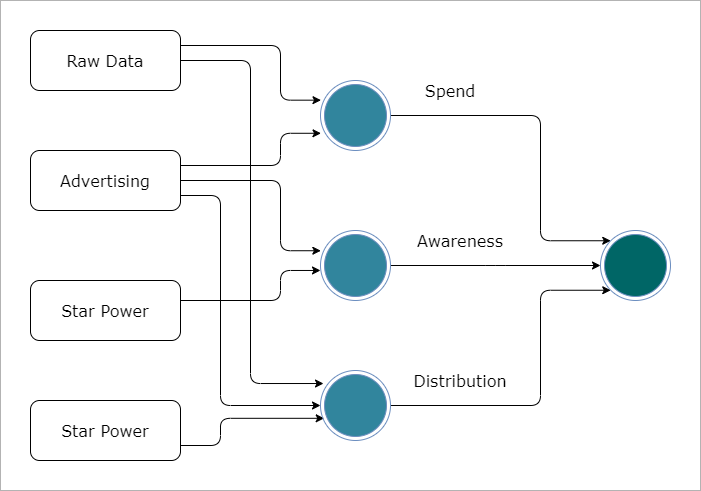
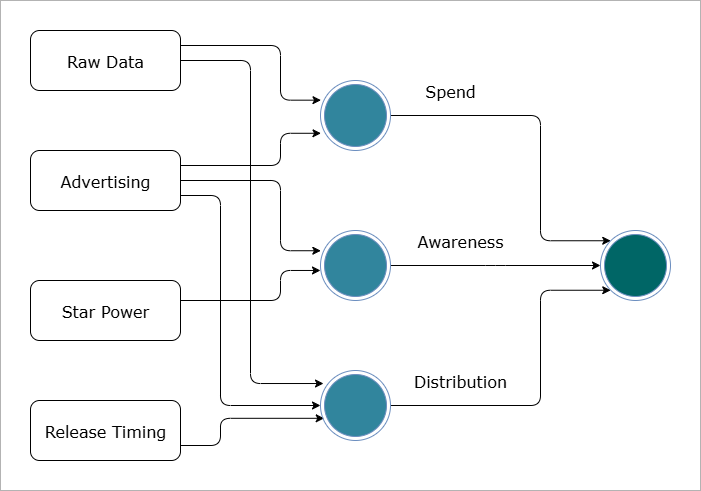
Update notes

diff --git a/docs/024-Machine-Learning/001-ML-Fundamentals/015-Deep-Learning.md b/docs/024-Machine-Learning/001-ML-Fundamentals/015-Deep-Learning.md
@@ -12,62 +12,86 @@ last_update:
 
 ## Overview
 
-Deep learning involves using algorithms called **neural networks**, which are inspired by how human brains work. These networks consist of interconnected nodes or neurons that process data and learn patterns.
+Deep learning uses **neural networks** inspired by the human brain. These networks learn patterns from data and solve complex problems.
 
-- Neurons, also known as nodes, are the basic units of these networks
-- Solves complex problems but requires large amounts of data
-- Best suited for less structured inputs like large texts or images
+- Neurons (nodes) process information and pass it forward
+- Handles unstructured inputs like images, text, and audio
+- Requires large amounts of data for training
+
+Deep learning builds on classical machine learning to solve more advanced tasks, learning from data like a brain does.
+
+## Capabilities
+
+Modern deep learning can do tasks that were once very difficult.
+
+- Recognizes objects in images and videos
+- Translates and summarizes text automatically
+- Generates realistic conversations, images, and audio
+
+These abilities make deep learning suitable for real-world, high-complexity problems.
+
 
 ## Case Study: Box Office Revenue
 
 Deep learning can be applied to real-world problems, like predicting the box office revenue of a movie based on various factors.
 
 - **Simple Model Example**
-  - Predicting box office revenue based on production budget
-  - A straight line through data points shows the relationship between budget and revenue
-  - This is a prediction from a simple model
-  - Neural network might use budget as input to predict revenue
+
+  - Predict revenue from production budget
+  - Straight line shows relationship between budget and revenue
+  - Neural network uses budget as input to predict revenue
 
 - **Adding More Data**
-  - More information available: advertising spend, star power, timing of release
-  - Leads to a more complex neural network
+
+  - Include advertising spend, star power, and release timing
+  - Network becomes more complex and accurate
 
 In a neural network, different neurons handle different aspects of the data. 
 
-- **First Neuron**: Estimates spend based on budget and advertising costs
-- **Second Neuron**: Tracks awareness from advertising and star power
-- **Third Neuron**: Considers distribution decisions, budget, advertising, and release timing
-- **Final Neuron**: Takes outputs from previous neurons to estimate box office revenue
+1. **First Neuron**: Estimates spend based on budget and advertising costs
+2. **Second Neuron**: Tracks awareness from advertising and star power
+3. **Third Neuron**: Considers distribution, timing, and combined factors
+4. **Final Neuron**: Takes outputs from previous neurons to estimate box office revenue
 
 We can better understand this from the diagram below: 
 
+<div class='img-center'>
+
 ![](/img/docs/deeplearning-predicting-box-office-revenue.png)
+
+</div>
+
 
 
 ## Training the Neural Network
 
 Training a neural network involves feeding it data and allowing it to learn the relationships between different inputs and outputs.
 
-- Training data is input to figure out relationships between neurons
-- Neural network learns by testing and analyzing these relationships
+- Input data is used to calculate relationships between neurons
+- Network adjusts weights to improve predictions
+- Accuracy increases with repeated testing and optimization
+- Training allows the network to map inputs to outputs reliably.
 
 ## Deep Learning
 
-Deep learning involves using much larger neural networks, enabling the computation of very complex functions.
+Deep learning involves using much larger neural networks for computing very complex functions.
 
-- Real networks are much larger, with thousands of neurons
-- Stacking many neurons enables computation of complex functions
-- Provides accurate mappings from input to output
+- Can contain thousands of neurons
+- Stacked neurons compute very complex functions
+- Provides accurate predictions for complicated tasks
 
-    |![](/img/docs/ml-deeplearning-million-neurons.png)|
-    |-|
+
+|![](/img/docs/ml-deeplearning-million-neurons.png)|
+|-|
 
 
 ## When to Use Deep Learning?
 
-Deep learning is powerful but should be chosen based on specific conditions.
+Deep learning is powerful but not always needed.
 
-- Best for large datasets
-- Requires powerful computers for training
-- Excels in areas with lack of domain knowledge, as it identifies features for you
-- Shines in complex problems like computer vision and natural language processing
+- Works best with large datasets
+- Requires high-performance computing
+- Finds features automatically when domain knowledge is limited
+- Excels at computer vision, natural language processing, and other complex problems
+
+Deep learning is most effective when the problem is complex, the data is large, and automated feature detection is valuable.

diff --git a/docs/024-Machine-Learning/001-ML-Fundamentals/005-Unsupervised-Learning.md b/docs/024-Machine-Learning/001-ML-Fundamentals/005-Unsupervised-Learning.md
@@ -37,6 +37,14 @@ Below are some examples of clustering models:
   - No need to specify number of clusters
   - Requires setting criteria for what counts as a cluster
 
+<div class='img-center'>
+
+![](/img/docs/09292025-clustering_example.png)
+
+</div>
+
+
+
 ## Anomaly Detection
 
 Anomaly detection focuses on identifying outliers, which are observations that significantly differ from others.
@@ -58,6 +66,13 @@ Anomaly detection focuses on identifying outliers, which are observations that s
   - Error spotting
   - Unusual medical cases
 
+<div class='img-center'>
+
+![](/img/docs/09292025-ml-anomaly-detection.jpg)
+
+</div>
+
+
 ## Association
 
 Association involves finding relationships between observations, often used in market basket analysis to determine which items are bought together.
@@ -70,3 +85,9 @@ It is commonly used in **market basket analysis** to find patterns in what items
 - Jam is often bought with bread, beer with peanuts, wine with cheese
 - Helps retailers plan product placement
 - Reveals hidden product patterns
+
+<div class='img-center'>
+
+![](/img/docs/09292025-ml-association.jpg)
+
+</div>
